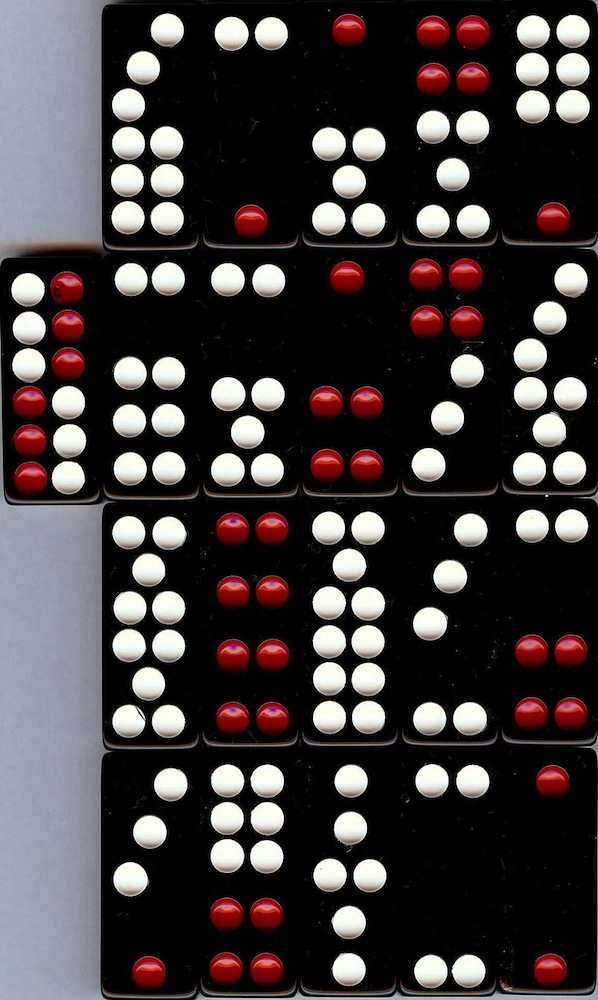
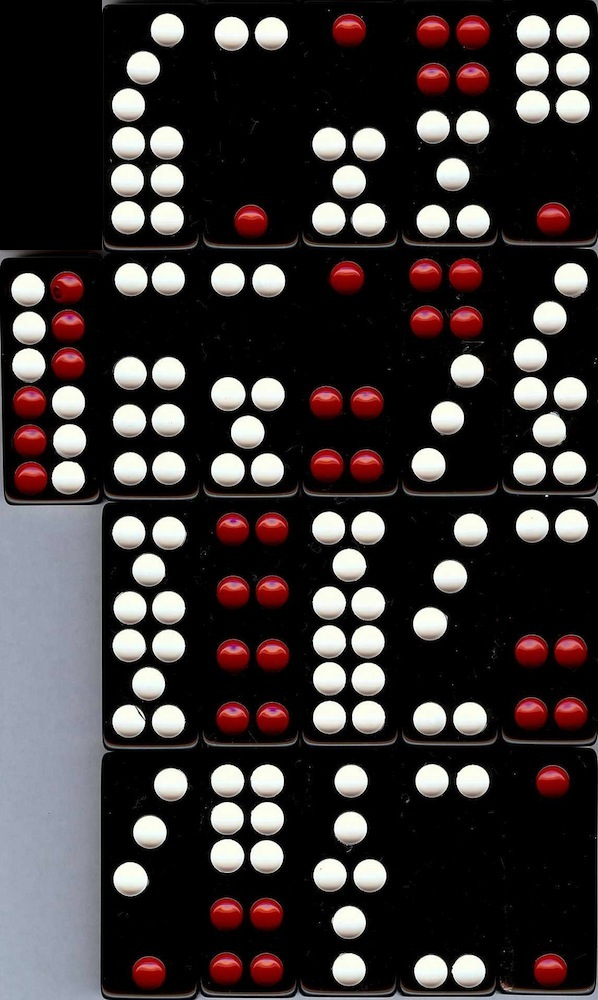
Once both players have finished setting tiles, the opponent's tiles are shown.  No comparison or hand values are yet done.

Changed region(s): [[0.0, 0.0, 0.1806, 0.248]]

diff --git a/paigow/templates/game_play.html b/paigow/templates/game_play.html
@@ -642,7 +642,7 @@
         
         // Get the opponent's tile values so we can show them.
         $.ajax( {
-          url: "/paigow/data/game/{{ game.id }}/opponent_tiles",
+          url: "/paigow/data/game/{{ game.id }}/opponent_tiles/{{ pgtile_size }}",
           context: document.body,
           success: function( data, textStatus, jqXHR ) { get_opponent_tiles_success( this, data, textStatus, jqXHR ); },
           error: function( jqXHR, textStatus, errorThrown ) { show_ajax_failure( "Error trying to get the opponent's tiles for comparing hands.", errorThrown, textStatus, jqXHR ); }
@@ -652,8 +652,26 @@
       return someone_is_still_setting_tiles;
     }
     
+    function expose_tile_value( jqtile, css_val )
+    {
+      var jqimg = $(jqtile.children("img")[0]);
+      jqimg.fadeOut( 200, function () { jqimg.css( { 'background-position': css_val } ) } );
+      jqimg.fadeIn();
+    }
+    
     function get_opponent_tiles_success( context, data, textStatus, jqXHR )
     {
+      // The return values are the sprite background-locations of each tile.
+      // Each set is separated by vertical bar, and each tile is separated by semicolon:
+      // |-200px -250px;-400px 0px;-200px -250px;-400px 0px;|<next set>|<next-set>|"
+      var sets_array = data.split("|");
+      for ( set_num = 4; set_num <= 6; set_num++ )
+      {
+        var set_vals = sets_array[ set_num - 3 ];
+        var tiles_array = set_vals.split(";");
+        for ( t = 0; t < 4; t++ )
+          expose_tile_value( jqtile_of_nums( set_num, t ), tiles_array[t] );
+      }
     }
     
 
@@ -688,10 +706,6 @@
   $(".pgset-player").droppable( { 
       disabled: true
     } );
-
-  //$(".paigow321-deal").droppable( {
-  //    disabled: true
-  //  } );
 
   // Make the switch buttons active
   $(".pgset-button-switch").click( function( button ) { return switch_click( this ); } );

diff --git a/paigow/templates/pgtile.html b/paigow/templates/pgtile.html
@@ -1,8 +1,1 @@
-{% if pgtile %}
-<img class="pgtile pgtile-{{ player_type }} pgtile-{{ pgtile_size }}" style="background-position:
-{% if pgtile_size == "small" %}-{% widthratio pgtile.sprite_left 4 1 %}px -{% widthratio pgtile.sprite_top 4 1 %}px;{% endif %}
-{% if pgtile_size == "medium" %}-{% widthratio pgtile.sprite_left 2 1 %}px -{% widthratio pgtile.sprite_top 2 1 %}px;{% endif %}
-{% if pgtile_size == "large" %}-{{pgtile.sprite_left}}px -{{pgtile.sprite_top}}px;{% endif %}"></img>
-{% else %}
-<img class="pgtile pgtile-{{ player_type }} pgtile-{{ pgtile_size }}"></img>
-{% endif %}
+<img class="pgtile pgtile-{{ player_type }} pgtile-{{ pgtile_size }}" style="background-position: {{ background_position_css_value }};"></img>

diff --git a/paigow/templates/user_login.html b/paigow/templates/user_login.html
@@ -66,7 +66,7 @@
           {% csrf_token %}
           <div class="control-group">
             <div class="controls">
-              <p class="lead">Returning users please login here</p>
+              <p class="lead">Returning users: login</p>
             </div>
           </div>
           <div class="control-group">
@@ -99,7 +99,7 @@
           {% csrf_token %}
           <div class="control-group">
             <div class="controls">
-              <p class="lead">New users please register here</p>
+              <p class="lead">New users: register</p>
             </div>
           </div>
           <div class="control-group">

diff --git a/mainsite/static/css/pgtile.css b/mainsite/static/css/pgtile.css
@@ -5,17 +5,15 @@
 .pgtile {
   float:left;
   margin-right:5px;
-
-}
-
-.pgtile-player {
   background-image:url('/static/pgtiles.jpg');
   src:url('/static/img_trans.gif');
 }
 
+.pgtile-player {
+}
+
 .pgtile-opponent {
-  background-color:black;
-  src:url('/static/img_trans.gif');
+	background-position: 0px 0px;
 }
 
 .pgtile-div {

diff --git a/paigow/models/pgtile.py b/paigow/models/pgtile.py
@@ -62,7 +62,6 @@ class PGTile( models.Model ):
   sprite_left = models.PositiveSmallIntegerField( default = 0 )
   sprite_top = models.PositiveSmallIntegerField( default = 0 )
   
-  
   # ----------------------------------------------------------
   # methods
   
@@ -87,6 +86,16 @@ class PGTile( models.Model ):
     else:
       return tiles[1]
   
+  # return the background-sprite css value for background-position.
+  def background_position_css_value( self, tile_size ):
+    divisor = 1.0
+    if ( tile_size == "medium" ):
+      divisor = 2.0
+    elif ( tile_size == "small" ):
+      divisor = 4.0
+    ret_val = "-" + str(self.sprite_left/divisor) + "px -" + str(self.sprite_top/divisor) + "px"
+    return ret_val
+  
   # return the tile with the given rank, taking into account whether
   # or not it's the first one.
   @classmethod
@@ -98,6 +107,11 @@ class PGTile( models.Model ):
   def with_char( cls, tile_char ):
     return cls.objects.get( tile_char__exact = tile_char )
   
+  # return a blank tile (not saved in database)
+  @classmethod
+  def blank_tile( cls ):
+    return PGTile( tile_char = ' ', tile_rank = 99, pair_rank = 99, tile_value = 99, sprite_left = 0, sprite_top = 0 )
+
   # convenience to allow creation of tiles by name.
   # * double-underscore means that what follows is an
   #   adjustment of the field, so below it will query
@@ -214,6 +228,11 @@ class PGTileTest(TestCase):
     tile3 = PGTile.with_char( "b" )
     self.assertTrue( tile1 == tile2 )
     self.assertTrue( tile1 != tile3 )
+  
+  def test_sprite_values( self ):
+    tile1 = PGTile.with_name( "teen" )
+    self.assertEqual( tile1.background_position_css_value("large"), "-0.0px -250.0px" )
+    self.assertEqual( tile1.background_position_css_value("medium"), "-0.0px -125.0px" )
 
 
 # run the test when invoked as a test (this is boilerplate

diff --git a/paigow/views.py b/paigow/views.py
@@ -319,7 +319,7 @@ def unpreview_hands( request, game_id ):
 #-------------------------------------------------------------------
 # AJAX response for previewing the opponents tiles when both players
 # have finished setting the tiles.
-def get_opponent_tiles( request, game_id ):
+def get_opponent_tiles( request, game_id, pgtile_size ):
   from models import PGPlayerInGame
   game = PGGame.objects.get( id = game_id )
   player = session_player( request )
@@ -340,6 +340,13 @@ def get_opponent_tiles( request, game_id ):
   if ( pigo.state() != PGPlayerInGame.READY ):
     return HttpResponseNotAllowed( "You naughty person you: trying to get opponents tiles before they have finished setting them!" )
   
-  # Finally!  Both players are ready.  Return ???
-  print "Game is ON for player " + str ( player )
-  return HttpResponse( "OK" )
+  # Finally!  Both players are ready.  Return the background-sprite image locations
+  # exactly as they would appear in the style.
+  ret_val = "|"
+  sets = pigo.sets()
+  for pgset in sets:
+    tiles = pgset.tiles
+    for tile in tiles:
+      ret_val += tile.background_position_css_value( pgtile_size ) + ";"
+    ret_val += "|"
+  return HttpResponse( ret_val )

diff --git a/paigow/models/models.py b/paigow/models/models.py
@@ -87,6 +87,10 @@ class PGPlayerInGame(models.Model):
   def state( self ):
     return self.deal_state
   
+  def sets( self ):
+    from paigow.pgset import PGSet
+    return [ PGSet.create_with_tile_chars(self.set1), PGSet.create_with_tile_chars(self.set2), PGSet.create_with_tile_chars(self.set3) ]
+  
   # player has been dealt sets, remember these when they set it
   def set_dealt_sets( self, sets ):
     self.set1 = sets[0].tile_chars()
@@ -103,8 +107,9 @@ class PGPlayerInGame(models.Model):
     self.save()
     
   def tiles_were_requested( self ):
-    self.deal_state = PGPlayerInGame.SETTING_TILES
-    self.save()
+    if ( self.deal_state == PGPlayerInGame.NOT_READY ):
+      self.deal_state = PGPlayerInGame.SETTING_TILES
+      self.save()
   
   def player_is_ready( self, set1, set2, set3 ):
     from paigow.pgset import PGSet

diff --git a/paigow/templatetags/paigow_extras.py b/paigow/templatetags/paigow_extras.py
@@ -82,8 +82,10 @@ def show_pgset( context, pgset, pgset_id, opponent ):
 def tile_image( context, tile, opponent ):
   if ( context['player_type'] == "opponent" ):
     context['pgtile'] = None
+    context['background_position_css_value'] = "0px 0px"
   else:
     context['pgtile'] = tile
+    context['background_position_css_value'] = tile.background_position_css_value( context['pgtile_size'] )
   return context
 
 @register.simple_tag( takes_context=True )

diff --git a/paigow/urls.py b/paigow/urls.py
@@ -47,7 +47,7 @@ urlpatterns = patterns('',
   
   # the player is getting the opponent's hand to show, now
   # that both players are finished setting the tiles.
-  url(r'^data/game/([0-9]+)/opponent_tiles', 'paigow.views.get_opponent_tiles' ),
+  url(r'^data/game/([0-9]+)/opponent_tiles/(.*)', 'paigow.views.get_opponent_tiles' ),
   
   # /tile or /tiles/ : show all the tiles
   url(r'^tiles[/]*$',

diff --git a/paigow/models/pggame.py b/paigow/models/pggame.py
@@ -153,6 +153,10 @@ class PGGame( models.Model ):
     # remember this deal
     deal = PGDeal.create( tiles, self, self.current_deal_number )
     deal.save()
+    
+    # game is not about to deal anymore
+    self.game_state = PGGame.SETTING_TILES
+    self.save()
   
   
   def sets_for_player( self, player ):

diff --git a/paigow/models/pgdeal.py b/paigow/models/pgdeal.py
@@ -38,7 +38,7 @@ class PGDeal( models.Model ):
   
   # The deal shows as the ordering
   def __unicode__( self ):
-    return self.deck
+    return "Deal " + str( self.deal_number ) + "in game " + str( self.game )
   
   
   # Create it with an array of tiles and the game/deal#
